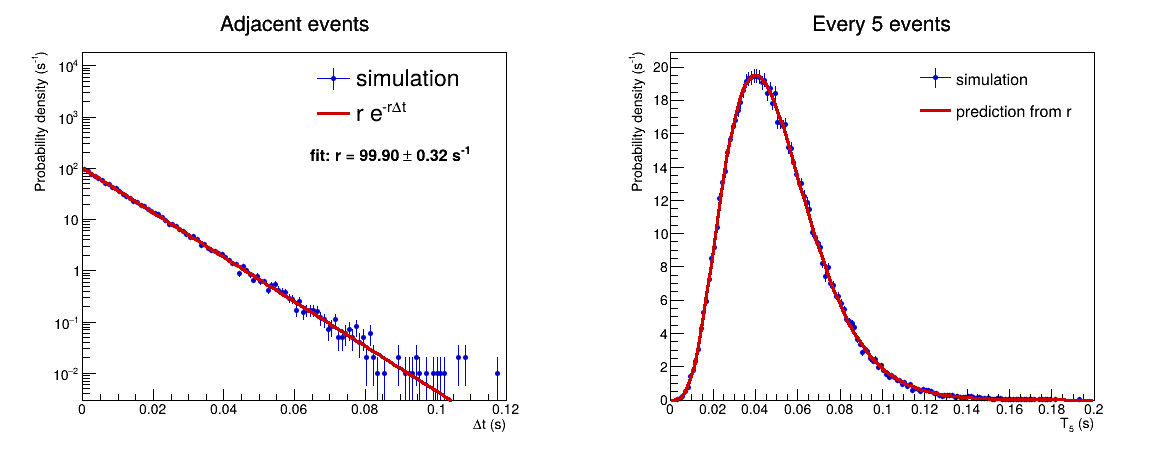
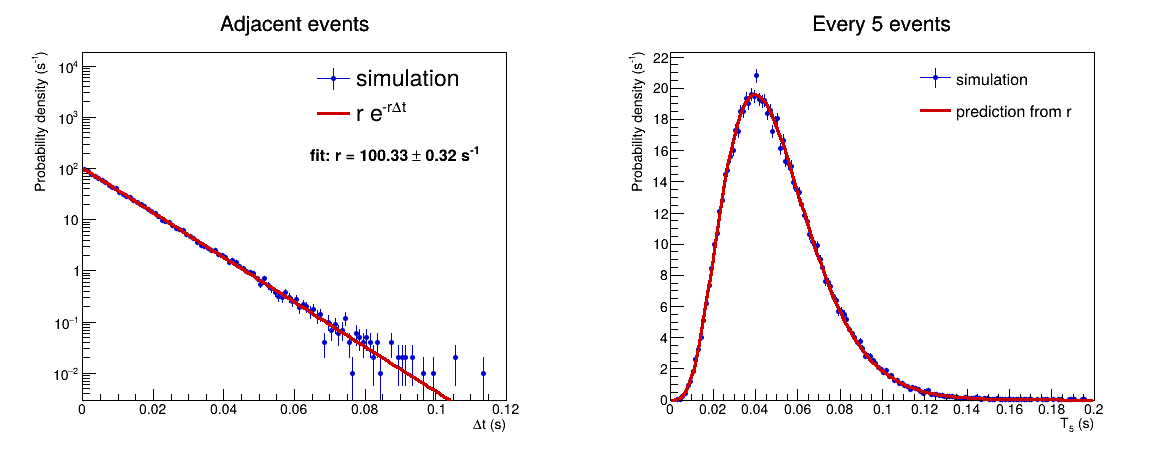
Restore uniform-time derivation for interval tutorial

diff --git a/chapt2/2.distribution_of_time_intervals.html b/chapt2/2.distribution_of_time_intervals.html
@@ -92,19 +92,70 @@
 <main>
   <h1>相邻事件时间间隔分布</h1>
 
-  <p class="lead">对计数率稳定、各事件彼此独立的计数过程，相邻事件的时间间隔服从指数分布。时间间隔分布因此可以提供一个独立于“固定时间内计数”的计数率测量。</p>
+  <p class="lead">在有限观测时间内均匀产生随机事件时刻，将这些时刻排序并作差，可以得到相邻事件的时间间隔。本教程从这一过程出发，验证时间间隔的指数规律，并由拟合恢复事件的平均计数率。</p>
 
-  <h2>1. 从泊松计数得到时间间隔</h2>
+  <h2>1. 在观测时间内均匀产生事件</h2>
 
-  <p>设平均计数率为 \(r\)。从一个事件开始等待时间 \(t\)，在这段时间内没有新事件的概率等于泊松分布中零次计数的概率：</p>
+  <p>若事件的平均计数率稳定，事件在观测时间 \(T\) 内没有偏好的位置。给定总事件数 \(n\)，每个事件时刻都可以由区间 \([0,T]\) 上的均匀分布产生，平均计数率为 \(r=n/T\)。</p>
+
+  <h3>C++ ROOT</h3>
+
+  <pre><code>const double rate = 100.0;       // s^-1
+const double duration = 1000.0; // s
+const int n = static_cast&lt;int&gt;(rate * duration);
+
+TRandom3 rng(20260906);
+std::vector&lt;double&gt; times;
+times.reserve(n);
+TH1D eventTimes("eventTimes", "Event times;Time (s);Events per 10 s",
+                100, 0.0, duration);
+
+for (int i = 0; i &lt; n; ++i) {
+    double t = rng.Uniform(0.0, duration);
+    times.push_back(t);
+    eventTimes.Fill(t);
+}</code></pre>
+
+  <h3>PyROOT</h3>
+
+  <pre><code>import ROOT
+
+rate = 100.0       # s^-1
+duration = 1000.0  # s
+n = int(rate * duration)
+
+rng = ROOT.TRandom3(20260906)
+times = []
+event_times = ROOT.TH1D(
+    "event_times", "Event times;Time (s);Events per 10 s",
+    100, 0.0, duration
+)
+
+for _ in range(n):
+    t = rng.Uniform(0.0, duration)
+    times.append(t)
+    event_times.Fill(t)</code></pre>
+
+  <div class="figure">
+    <img src="uniform_event_times.png" alt="在观测时间内均匀产生的随机事件时刻">
+    <p class="caption">在 \(T=1000\ \mathrm{s}\) 内均匀产生 \(10^5\) 个事件。各时间段的计数围绕均匀分布的期望值涨落。</p>
+  </div>
+
+  <p>这里固定总事件数 \(n\)，目的是从均匀的事件时刻验证时间间隔的结构。当 \(n\) 和 \(T\) 足够大且 \(n/T=r\) 保持不变时，观测区间内部的时间间隔趋近下面的指数分布。</p>
+
+  <h2>2. 排序并计算相邻事件时间间隔</h2>
+
+  <p>先将事件时刻按从小到大的顺序排列。对于一个远离观测边界的事件，其他 \(n-1\) 个均匀事件都不落入其后长度为 \(\tau\) 的时间段内的概率为</p>
 
   <div class="equation">
     \[
-      P(\Delta t&gt;t)=P(0;t)=e^{-rt}.
+      P(\Delta t&gt;\tau)
+      =\left(1-\frac{\tau}{T}\right)^{n-1}
+      \longrightarrow e^{-r\tau}.
     \]
   </div>
 
-  <p>因此，等待时间小于 \(t\) 的概率为 \(1-e^{-rt}\)。对 \(t\) 求导，得到相邻事件时间间隔的概率密度：</p>
+  <p>对等待时间的累积分布求导，得到相邻事件时间间隔的概率密度：</p>
 
   <div class="equation">
     \[
@@ -114,25 +165,9 @@
     \]
   </div>
 
-  <p>这给出两种直接求计数率的方法：由时间间隔的样本均值计算 \(r=1/\overline{\Delta t}\)，或用指数函数拟合时间间隔直方图。</p>
-
-  <h2>2. 用 ROOT 产生并拟合时间间隔</h2>
-
-  <p><code>TRandom3::Exp(mean)</code> 产生均值为 <code>mean</code> 的指数随机数。逐次产生 \(\Delta t\) 并累加，就得到按时间排序的事件序列。下面的 C++ ROOT 与 PyROOT 代码使用相同的过程。</p>
-
   <h3>C++ ROOT</h3>
 
-  <pre><code>const double rate = 100.0;       // s^-1
-const double duration = 1000.0; // s
-
-TRandom3 rng(20260906);
-std::vector&lt;double&gt; times;
-double t = 0.0;
-while (true) {
-    t += rng.Exp(1.0 / rate);
-    if (t &gt;= duration) break;
-    times.push_back(t);
-}
+  <pre><code>std::sort(times.begin(), times.end());
 
 TH1D h("h", "Adjacent events;#Deltat (s);Entries",
        120, 0.0, 12.0 / rate);
@@ -145,19 +180,7 @@ double fittedRate = -f.GetParameter(1);</code></pre>
 
   <h3>PyROOT</h3>
 
-  <pre><code>import ROOT
-
-rate = 100.0       # s^-1
-duration = 1000.0  # s
-
-rng = ROOT.TRandom3(20260906)
-times = []
-t = 0.0
-while True:
-    t += rng.Exp(1.0 / rate)
-    if t &gt;= duration:
-        break
-    times.append(t)
+  <pre><code>times.sort()
 
 h = ROOT.TH1D("h", "Adjacent events;#Deltat (s);Entries",
               120, 0.0, 12.0 / rate)
@@ -168,7 +191,7 @@ f = ROOT.TF1("f", "expo", 0.0, 8.0 / rate)
 h.Fit(f, "R")
 fitted_rate = -f.GetParameter(1)</code></pre>
 
-  <p>ROOT 的 <code>expo</code> 表示 \(e^{p_0+p_1x}\)，所以当横轴单位为 s 时，计数率为 \(-p_1\)。若横轴单位为 μs，则计数率为 \(-10^6p_1\ \mathrm{s}^{-1}\)。<code>GetParError(1)</code> 给出斜率参数的拟合误差，乘以相同的单位换算因子即可得到计数率误差。</p>
+  <p>ROOT 的 <code>expo</code> 表示 \(e^{p_0+p_1x}\)，所以当横轴单位为 s 时，计数率为 \(-p_1\)。若横轴单位为 μs，则计数率为 \(-10^6p_1\ \mathrm{s}^{-1}\)。<code>GetParError(1)</code> 给出斜率参数的拟合误差。</p>
 
   <h2>3. 每 \(N\) 个事件的时间间隔</h2>
 
@@ -206,7 +229,7 @@ for i in range(5, len(times)):
 
   <div class="figure">
     <img src="time_interval_distributions.png" alt="相邻事件和每五个事件时间间隔的模拟分布">
-    <p class="caption">设定 \(r=100\ \mathrm{s}^{-1}\)。左图由相邻间隔的指数拟合得到 \(r=99.90\pm0.32\ \mathrm{s}^{-1}\)；右图使用同一计数率预测每 5 个事件的时间间隔。</p>
+    <p class="caption">由均匀事件时刻得到相邻事件间隔。设定 \(r=100\ \mathrm{s}^{-1}\)，指数拟合得到 \(r=100.33\pm0.32\ \mathrm{s}^{-1}\)；右图使用同一计数率预测每 5 个事件的时间间隔。</p>
   </div>
 
   <h2>4. 实验数据中的比较</h2>

diff --git a/chapt2/coursework2.1/2.1_Statistical_Distribution.html b/chapt2/coursework2.1/2.1_Statistical_Distribution.html
@@ -107,6 +107,16 @@
           <td><code>h.Fill(value)</code></td>
         </tr>
         <tr>
+          <td>绘制直方图</td>
+          <td><code>h.Draw();</code></td>
+          <td><code>h.Draw()</code></td>
+        </tr>
+        <tr>
+          <td>均值和标准差</td>
+          <td><code>h.GetMean()</code>，<code>h.GetStdDev()</code></td>
+          <td><code>h.GetMean()</code>，<code>h.GetStdDev()</code></td>
+        </tr>
+        <tr>
           <td>Poisson 模型</td>
           <td><code>TF1 f("f", "[0]*TMath::Poisson(x,[1])", xmin, xmax);</code></td>
           <td><code>f = ROOT.TF1("f", "[0]*TMath::Poisson(x,[1])", xmin, xmax)</code></td>
@@ -175,7 +185,7 @@
     </li>
   </ol>
 
-  <p>相邻事件时间间隔的推导可参考<a href="../2.distribution_of_time_intervals.html">相邻事件时间间隔分布</a>。</p>
+  <p>相邻事件时间间隔为何呈指数分布，可参考<a href="../2.distribution_of_time_intervals.html">相邻事件时间间隔分布</a>。教程从均匀产生事件时刻开始，排序后计算时间间隔。</p>
 
 </main>
 </body>
